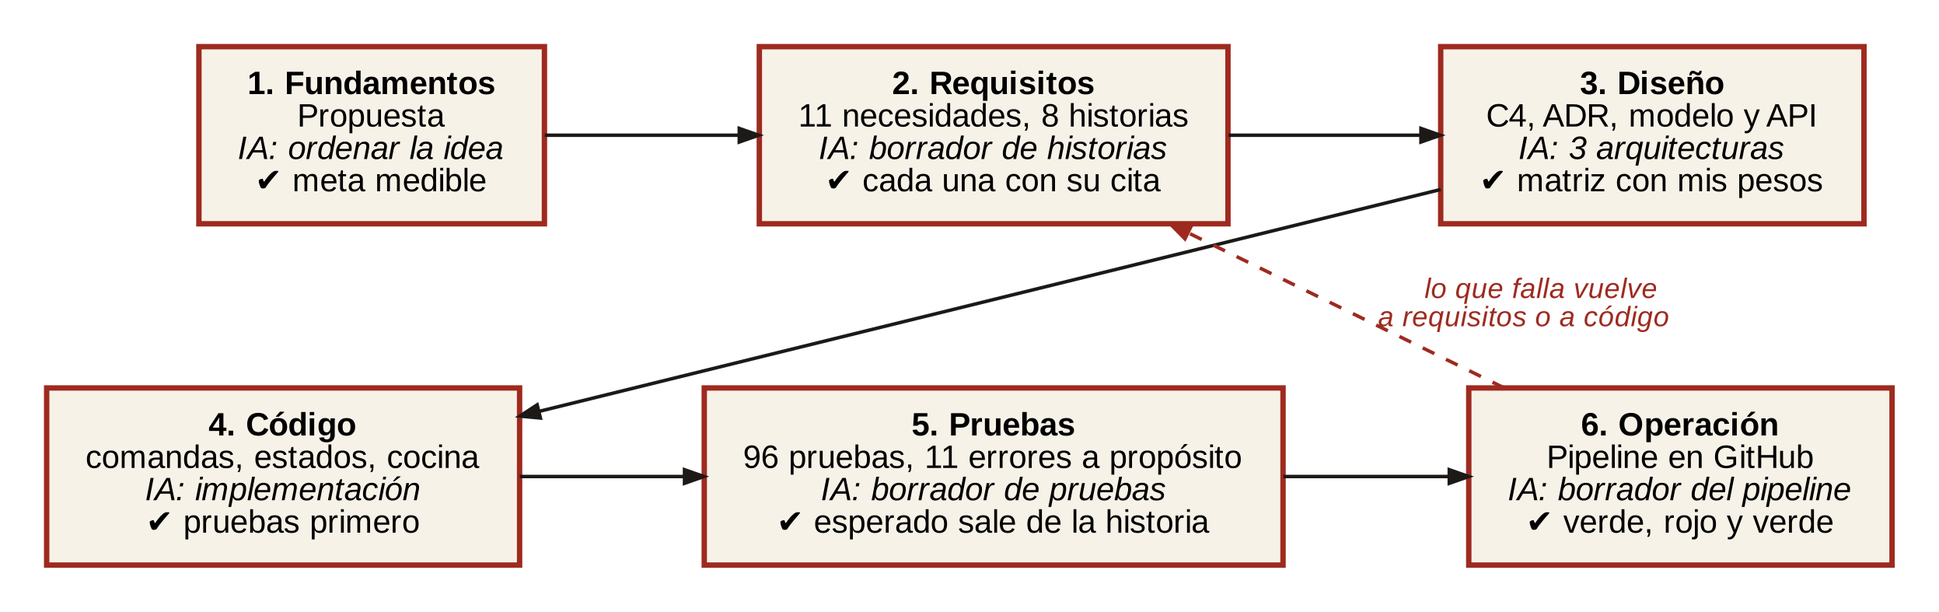
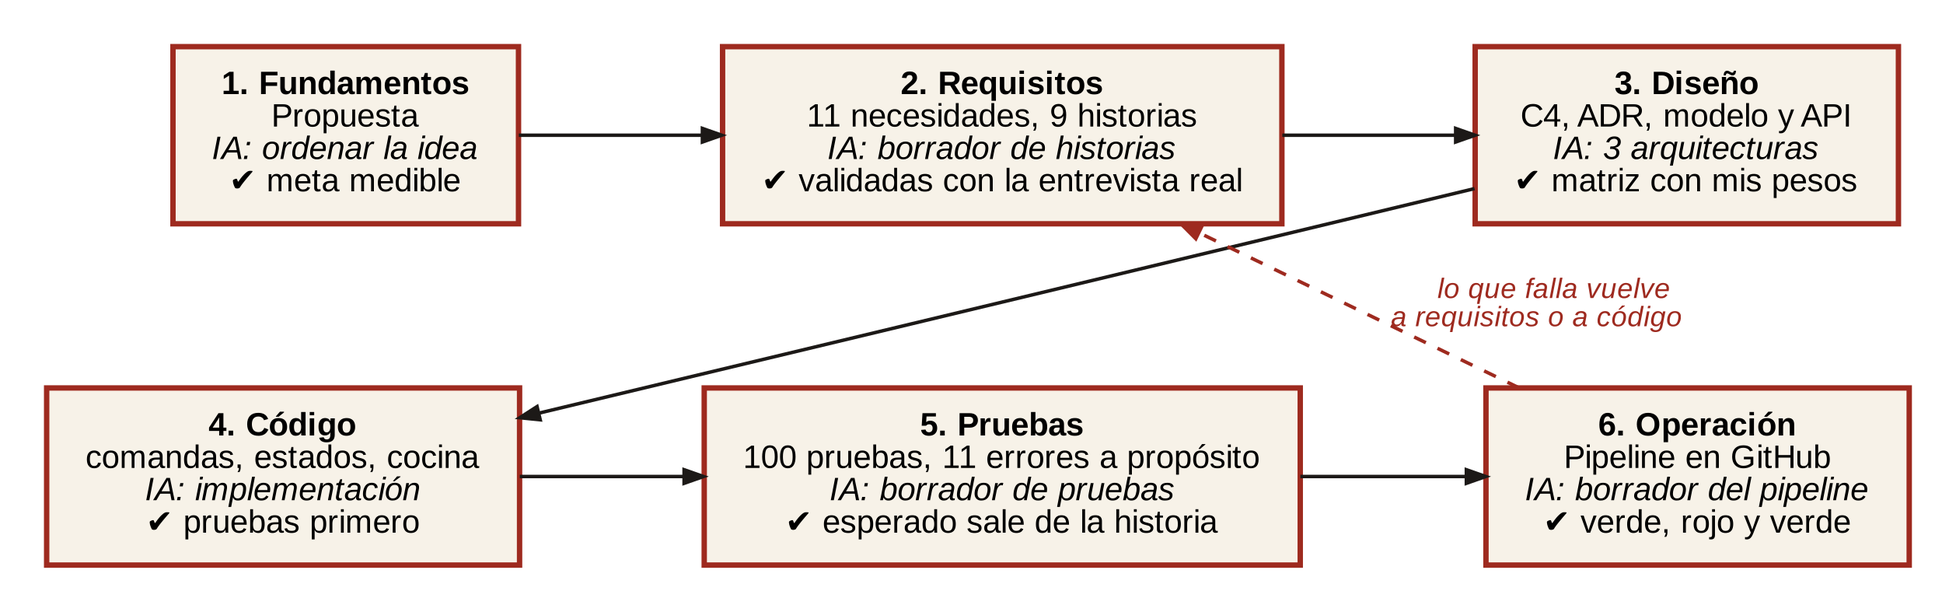
Informe, bitácora y README con la entrevista real y la nueva evaluación de historias

diff --git a/informe_final.md b/informe_final.md
@@ -8,15 +8,15 @@ Fecha: 2026-11-26
 
 ## 1. Resumen
 
-En A Fénix de Oro el mesero anota los pedidos en una libreta y lleva la hoja a la cocina. A veces la cocina no entiende la letra o se pierde una hoja, y el plato sale mal o tarde. A-Fénix reemplaza la hoja: el mesero registra la comanda en una tablet con la base, la proteína, el tamaño y el picante de cada plato, y la cocina la ve en una pantalla en orden de llegada y marca cuándo está lista. Usé IA en las seis fases: para la propuesta, los requisitos, el diseño, el código, las pruebas y el pipeline. El resultado principal de la verificación es que la IA se equivocó en todas las fases, sobre todo inventando cosas que nadie pidió, y que la mayoría de esos errores solo aparecieron al compararlos con los requisitos o al romper el código a propósito. Evalué cada historia de usuario contra sus escenarios de aceptación: de 16 escenarios, 9 se cumplen completos, 3 en parte y 4 son de historias que no alcancé a construir. El proyecto tiene 93 pruebas que pasan, con 100 % de cobertura de la lógica del negocio, y un pipeline que las corre en cada cambio.
+En A Fénix de Oro los pedidos viajan en papel: el mesero anota el pedido, lo escribe con marcador en la caja y la lleva a la cocina, y cuando un pedido sale suena una campana que no dice cuál es. Por eso hay pedidos que nunca se hacen y platos que salen distintos a lo que pidió el cliente. A-Fénix reemplaza el papel: el mesero registra el pedido en una tablet y la cocina lo ve en una pantalla en orden de llegada y marca cuándo está listo. Usé IA en las seis fases del ciclo de vida, y en todas se equivocó en algo. El error más grande lo encontré al final, cuando cambié la entrevista simulada por una real: la IA había inventado cómo se piden los platos. Evalué cada historia de usuario contra sus escenarios de aceptación: de 18 escenarios, 7 se cumplen, 3 en parte, 2 se construyeron sobre un requisito que resultó falso y 6 son de historias sin construir. El proyecto tiene 95 pruebas que pasan, con 100 % de cobertura de la lógica del negocio, y un pipeline que las corre en cada cambio.
 
 ## 2. Problema y usuario
 
-Los usuarios son los 3 meseros y los 2 cocineros del restaurante. Hoy el mesero anota la mesa y los platos en una libreta, pregunta por cada plato si va con arroz frito o chop suey, de pollo, cerdo o res, personal o familiar, y si es picante, y lleva la hoja a la cocina. El cocinero saca las hojas en el orden en que llegan y canta la mesa cuando el plato está listo; si el mesero no lo oye, tiene que ir a preguntar. En la hora del almuerzo salen unas 60 comandas, y lo que más preocupa a la administradora es que el sistema se caiga en plena hora pico.
+En el restaurante trabajan 4 meseros, 3 cocineros y 3 auxiliares de cocina, y hay 12 mesas. En la hora pico, de 12 a 3 de la tarde, salen unos 100 pedidos. El cliente pide el plato y el color, por ejemplo «un arroz con todas las carnes color café». El mesero lo anota, lo escribe con marcador en la caja del pedido y la lleva a la cocina diciéndolo en voz media. Los domicilios llegan por llamada y se anotan en un papel con el pedido, el color, la dirección, el barrio, el teléfono y el total. La cocina prepara en orden de llegada y, cuando un pedido sale, suena una campana; el mesero va por él, pero no siempre es el suyo y tiene que sacar pedidos hasta encontrarlo.
 
-Lo que necesitan es que el pedido llegue a la cocina completo y legible, en orden, y que el salón sepa cuándo está listo.
+Los problemas más comunes son pedidos que nunca se hicieron, con clientes esperando 20 minutos, y pedidos o direcciones mal anotados «por falta de comunicación». El restaurante no tiene internet, y lo que más le preocupa de un sistema son las fallas y los congelamientos. Lo que necesitan es que todo pedido, de mesa o a domicilio, llegue completo a la cocina y que se sepa cuál está listo.
 
-Evidencia: [propuesta del módulo 1](docs/modulos/S2_Propuesta.pdf) y [documento de requisitos con la entrevista del módulo 2](docs/modulos/S3_Requisitos.pdf), anexo A. La entrevista es simulada; lo explico en la sección 6.
+Evidencia: [propuesta del módulo 1](docs/modulos/S2_Propuesta.pdf) y [documento de requisitos con la entrevista](docs/modulos/S3_Requisitos.pdf), anexo A. Las respuestas son mías, como cajero del restaurante; lo explico en la sección 6.
 
 ## 3. La IA en el ciclo de vida
 
@@ -28,19 +28,19 @@ Seguí el ciclo de vida completo, una fase por módulo del seminario, y en cada 
 | Módulo y fase | Qué hice con IA | Herramienta | Evidencia | Cómo verifiqué |
 |---|---|---|---|---|
 | 1. Fundamentos | Ordenar la propuesta: problema, fase donde aplicar IA (pruebas) y meta medible | Claude (chat) | [S2_Propuesta.pdf](docs/modulos/S2_Propuesta.pdf) | La idea y la meta son mías; revisé que la meta se pudiera medir (cobertura y errores a propósito) |
-| 2. Requisitos | Adaptar la entrevista, pasar las respuestas a 11 necesidades con cita, 8 historias con escenarios Gherkin, 3 RNF y la matriz de trazabilidad | Claude (chat) | [S3_Requisitos.pdf](docs/modulos/S3_Requisitos.pdf) | Cada necesidad tiene su cita y cada historia su necesidad de origen. Lo que no tenía cita pasó a preguntas pendientes |
+| 2. Requisitos | Pasar las respuestas a necesidades con cita, historias con escenarios Gherkin, RNF y trazabilidad; al final, comparar la entrevista simulada con la real | Claude (chat) | [S3_Requisitos.pdf](docs/modulos/S3_Requisitos.pdf) | Cada necesidad tiene su cita. Con la entrevista real cambié la HU-02 y agregué la HU-09 |
 | 3. Diseño | Tres alternativas de arquitectura, diagramas C4, modelo de datos y API, y una revisión de coherencia | Claude (chat) | [S4_Diseno.pdf](docs/modulos/S4_Diseno.pdf) | Matriz ponderada con mis pesos; cada caja, entidad y ruta contra una historia (5 fichas de prompt) |
 | 4. Código | `registrar_comanda` con pruebas primero (rojo, verde, refactor). Revisión de seguridad con ruff, bandit, mypy, pip-audit y dos revisiones con IA | Claude (chat) y Claude Code en VS Code (agente) | [README](README.md), [revision_seguridad.md](revision_seguridad.md) | 22 pruebas escritas antes del código; 17 pruebas de abuso en rojo antes de corregir; diff del agente revisado |
 | 5. Pruebas | Tabla de casos con particiones, límites y tabla de decisión; borrador de pruebas de la IA revisado; datos sintéticos; 11 errores metidos a propósito; reporte de defecto | Claude Code en VS Code | [registro_pruebas.md](registro_pruebas.md), [evidencias/semana-7](evidencias/semana-7), [D-01](docs/defectos/D-01.md) | Cada esperado sale de una historia, no del código. Corrí el borrador de la IA contra los 11 errores |
 | 6. Operación | Pipeline de GitHub Actions generado con IA y revisado con la lista de revisión de pipelines del curso | Claude (chat) | [ci.yml](.github/workflows/ci.yml), [revision_configuracion.md](docs/revision_configuracion.md) | Ejecución en verde, error a propósito en rojo y otra vez en verde |
 
-Todas las decisiones con IA están en la [bitácora](bitacora_ia.md): 24 entradas, 14 aceptadas, 6 aceptadas con cambios y 4 rechazadas.
+Todas las decisiones con IA están en la [bitácora](bitacora_ia.md): 25 entradas, 14 aceptadas, 7 aceptadas con cambios y 4 rechazadas.
 
 ## 4. Verificación: lo que la IA hizo mal y cómo lo encontré
 
-### Caso 1: requisitos que el cliente nunca pidió
+### Caso 1: requisitos que el restaurante nunca dijo
 
-Esto pasó en la fase de requisitos. En la semana 3, cuando mi proyecto todavía era VetCare Pro, la IA armó el documento de requisitos antes de que yo hiciera la entrevista, con respuestas supuestas del cliente: inventario de medicamentos, un rol de recepcionista, facturación y fallas de internet. Nada de eso lo dijo el cliente, aunque todo se veía razonable. Lo descubrí al comparar cada necesidad con las respuestas de la entrevista, porque las que no tenían una cita no tenían de dónde salir. Descarté ese borrador y desde ahí cada necesidad lleva su cita y cada historia su necesidad de origen. Cuando pasé el proyecto a A-Fénix volvió a pasar algo parecido: al adaptar la entrevista al restaurante, la IA dejó cosas que solo tienen sentido en una veterinaria, como el carnet de vacunación o que los clientes usaran el sistema, y las quité ([S3, sección 7](docs/modulos/S3_Requisitos.pdf)).
+Este fue el error más grande y lo encontré tarde. Cuando pasé el proyecto de VetCare Pro a A-Fénix no tenía una entrevista con el restaurante, y la IA adaptó las respuestas de otra entrevista simulada. De ahí salió la HU-02: el mesero elige la base, la proteína, el tamaño y el picante de cada plato. Con eso se construyó la carta de ejemplo, la validación de `registrar_comanda` y 22 pruebas. Al final del seminario respondí yo mismo el cuestionario, como cajero del restaurante, y la respuesta fue otra: el cliente solo dice el plato y el color, «dame un chop suey café». La entrevista simulada también había inventado los números de personal y de pedidos y había dejado por fuera los domicilios, que el restaurante pone entre las tres cosas más importantes. Lo detecté comparando cada historia con las respuestas reales. Pasé la HU-02 a «plato y color», agregué la HU-09 de domicilios y dejé las pruebas de la HU-02 nueva marcadas como diferencia, porque el código todavía pide las cuatro modificaciones ([requisitos v3](docs/modulos/S3_Requisitos.pdf), sección 7, y la [versión 2 con la entrevista simulada](docs/modulos/S3_Requisitos_v2_entrevista_simulada.pdf)). Algo parecido ya me había pasado en la semana 3 con VetCare Pro, cuando la IA armó requisitos de inventario, recepcionista y facturación antes de la entrevista.
 
 ### Caso 2: un tope de seguridad que no protegía nada
 
@@ -58,51 +58,52 @@ En operación le pedí a la IA un pipeline con un prompt simple. Me dio uno que 
 
 La arquitectura es un monolito web en Python con FastAPI y SQLite, instalado en un mini PC del restaurante, que no depende de internet y tiene la pantalla de cocina conectada por cable. Ganó la matriz ponderada con 103 puntos, contra 69 de la opción en la nube y 65 de los microservicios ([documento de diseño y ADR-001](docs/modulos/S4_Diseno.pdf)).
 
-De las 8 historias terminé la lógica de 6. Registrar la comanda (HU-01) y elegir las modificaciones desde la carta (HU-02) están en `afenix/comandas.py`. La pantalla de cocina en orden de llegada (HU-04) y el tiempo de espera (HU-05) están en `afenix/cocina.py`. El cambio de estado paso a paso (HU-06) y la regla de que solo la cocina lo cambia (HU-07), con su prueba de abuso del rol, están en `afenix/estados.py`. Quedaron pendientes HU-03, que la comanda llegue sola a la cocina, porque necesita la API y el WebSocket, y HU-08, la consulta del estado por mesa.
+De las 9 historias de la versión 3 hay lógica construida para 6. Registrar el pedido (HU-01) y la validación de los platos (HU-02, todavía con las modificaciones de la versión 2) están en `afenix/comandas.py`. La pantalla de cocina en orden de llegada (HU-04) y el tiempo de espera (HU-05) están en `afenix/cocina.py`. El cambio de estado paso a paso (HU-06) y la regla de que solo la cocina lo cambia (HU-07) están en `afenix/estados.py`. Faltan HU-03, que el pedido llegue solo a la cocina, porque necesita la API; HU-08, la consulta por mesa, y HU-09, los domicilios.
 
 ### Evaluación de las historias de usuario
 
-Para evaluar las historias escribí una prueba por cada escenario de aceptación del documento de requisitos, con los mismos datos del escenario: la mesa 4 con arroz frito con piña y chop suey, la mesa 2 a las 12:05 y la mesa 6 a las 12:01, y así con todos ([tests/test_aceptacion.py](tests/test_aceptacion.py)). Cada prueba comprueba todo el «entonces» del escenario, no solo una parte. Cuando el código no cumple el criterio, la prueba queda marcada como diferencia conocida (`xfail`) en lugar de cambiarla para que pase.
+Para evaluar las historias escribí una prueba por cada escenario de aceptación del documento de requisitos, con los mismos datos del escenario ([tests/test_aceptacion.py](tests/test_aceptacion.py)). Cada prueba comprueba todo el «entonces» del escenario. Cuando el código no cumple el criterio, la prueba queda marcada como diferencia conocida (`xfail`) en lugar de cambiarla para que pase. Los criterios son los de la versión 3, que sale de la entrevista real.
 
 | Historia | Prioridad | Escenario | Resultado | Qué encontré |
 |---|---|---|---|---|
-| HU-01 Registrar la comanda | Must | 1. Comanda registrada | Cumple | Queda «recibido» con mesa, platos y hora |
-| | | 2. Comanda sin platos | Cumple | Mismo mensaje del criterio |
-| HU-02 Modificaciones desde la carta | Must | 1. Plato con modificaciones | Cumple | Guarda las cuatro modificaciones |
-| | | 2. Opción fuera de la carta | Cumple | «La proteína no está en la carta» |
-| HU-03 La comanda llega a la cocina | Must | 1 y 2 | Sin construir | Necesita la API y el WebSocket |
+| HU-01 Registrar el pedido | Must | 1. Pedido registrado | Cumple | Queda «recibido» con mesa, platos y hora |
+| | | 2. Pedido sin platos | Cumple | Mismo mensaje del criterio |
+| HU-02 Plato y color | Must | 1. Plato con color | No cumple | El código pide base, proteína, tamaño y picante, que salieron de la entrevista simulada |
+| | | 2. Color que no existe | No cumple | El código no conoce los colores |
+| HU-03 Llega a la cocina | Must | 1 y 2 | Sin construir | Necesita la API y la red local |
 | HU-04 Cocina en orden de llegada | Must | 1. Orden por llegada | Cumple | La mesa 6 sale antes que la 2 |
-| | | 2. Comanda lista | Cumple | No aparece en la pantalla |
+| | | 2. Pedido listo | Cumple | No aparece en la pantalla |
+| HU-09 Domicilios | Must | 1 y 2 | Sin construir | Historia nueva de la entrevista real |
 | HU-05 Tiempo de espera | Should | 1. Tiempo a la vista | Cumple | 12 minutos |
-| | | 2. Hora del equipo errada | En parte | No muestra un tiempo negativo, pero el mensaje no es «Revisa la hora del equipo» |
+| | | 2. Hora del equipo errada | En parte | No muestra un tiempo negativo, pero el mensaje no es el del criterio |
 | HU-06 Cambio de estado | Should | 1. Pedido listo | Cumple | Guarda las 12:24 como hora de entrega |
-| | | 2. Salto de estado | En parte | El estado no cambia, pero el mensaje no es el del criterio |
-| HU-07 Solo la cocina cambia el estado | Should | 1. Cambio desde la cocina | En parte | Cambia el estado, pero no guarda quién lo hizo ni a qué hora |
+| | | 2. Salto o devolución | En parte | No cambia el estado, pero el mensaje no es el del criterio |
+| HU-07 Solo la cocina cambia el estado | Should | 1. Cambio desde la cocina | En parte | No guarda quién lo hizo ni a qué hora |
 | | | 2. Cambio desde el salón | Cumple | Lo rechaza y el estado no cambia |
 | HU-08 Consulta por mesa | Could | 1 y 2 | Sin construir | Pendiente |
 
-De los 16 escenarios, 9 se cumplen completos, 3 en parte y 4 son de las dos historias que no construí. De las historias Must, tres están completas (HU-01, HU-02 y HU-04) y una sin construir (HU-03). Las tres diferencias son reales y no las había visto antes: las pruebas de la semana 7 revisaban que hubiera un error, pero no comparaban el mensaje con el del criterio, y ninguna revisaba que el cambio de estado guardara quién lo hizo. La de HU-07 es la más importante, porque el modelo de datos sí tiene la entidad CambioEstado para eso y el código no la usa. Las dejo como pendientes en lugar de esconderlas.
+De los 18 escenarios, 7 se cumplen, 3 en parte, 2 no se cumplen y 6 son de historias sin construir. De las cinco historias Must, dos están completas (HU-01 y HU-04), una se construyó sobre un requisito equivocado (HU-02) y dos están sin construir (HU-03 y HU-09). Las diferencias de HU-05, HU-06 y HU-07 no las había visto antes, porque las pruebas de la semana 7 revisaban que hubiera un error pero no comparaban el mensaje con el del criterio. La entrevista real sí confirmó varias reglas del código: la cocina trabaja en orden de llegada, un pedido enviado no se devuelve ni se cancela, y el restaurante tiene 12 mesas, que ya quedó como tope en el código ([d07ecaa](https://github.com/Darkandligh/Seminario/commit/d07ecaa) y [b3395a8](https://github.com/Darkandligh/Seminario/commit/b3395a8)).
 
-Hay 93 pruebas que pasan, entre normales, de límite, de error, de abuso y de aceptación, con 100 % de cobertura de `afenix/`, y 3 pruebas de aceptación marcadas como diferencias conocidas (ver la evaluación de historias). El pipeline las corre junto con ruff, mypy, bandit y pip-audit en cada cambio ([última ejecución del pipeline en main](https://github.com/Darkandligh/Seminario/actions?query=branch%3Amain)).
+Hay 95 pruebas que pasan, entre normales, de límite, de error, de abuso y de aceptación, con 100 % de cobertura de `afenix/`, y 5 pruebas de aceptación marcadas como diferencias conocidas. El pipeline las corre junto con ruff, mypy, bandit y pip-audit en cada cambio ([última ejecución del pipeline en main](https://github.com/Darkandligh/Seminario/actions?query=branch%3Amain)).
 
-No alcancé a hacer la API, la base de datos ni las pantallas. El seminario se centró en la lógica y en cómo verificarla, y preferí terminar bien 6 historias que dejar las 8 a medias. También quedan preguntas para el restaurante: cuántas mesas tiene (P-03), si los topes de 50 platos y 20 por plato le sirven (P-01) y si un pedido marcado listo por error se puede devolver (P-06). También quedan las tres diferencias de la evaluación de historias: los dos mensajes que no son los del criterio y guardar quién cambió el estado y a qué hora.
+No alcancé a hacer la API, la base de datos ni las pantallas. El seminario se centró en la lógica y en cómo verificarla. Lo que más pesa ahora es cambiar la HU-02 a plato y color, construir los domicilios (HU-09) y corregir las diferencias de la evaluación. También quedan preguntas: desde cuántos minutos un pedido está demorado (P-02), porque depende del plato, y qué colores tiene la carta (P-04).
 
 ## 6. Reflexión ética y legal
 
 | Principio | Decisión en mi proyecto | Evidencia |
 |---|---|---|
 | Datos personales (Ley 1581 de 2012) | No uso datos de personas reales. Las comandas solo tienen mesa, platos y hora; los datos de prueba son sintéticos y los nombres del documento de requisitos son ficticios. A la IA nunca le pasé datos del restaurante | [tests/conftest.py](tests/conftest.py), [S3, introducción](docs/modulos/S3_Requisitos.pdf) |
-| Sesgo | La IA tiende a proponer lo que ve en otros sistemas (administradores, facturación, Redis, microservicios) aunque el restaurante no lo necesite. Lo traté como un sesgo: nada entra sin una cita del cliente o una historia | Casos 1 y 3 de este informe |
-| Transparencia | Declaro en la bitácora cada uso de IA y guardo los borradores de la IA sin cambios como evidencia. La entrevista simulada está marcada como simulada en el documento de requisitos | [bitacora_ia.md](bitacora_ia.md), [evidencias/](evidencias) |
+| Sesgo | La IA tiende a proponer lo que ve en otros sistemas (modificaciones por plato, administradores, facturación, microservicios) aunque el restaurante no lo use. Además, quien respondió la entrevista soy yo, que también desarrollo el sistema. Para los dos casos la regla fue la misma: nada entra sin una cita, y si la cita contradice el diseño, cambia el diseño | Casos 1 y 3 de este informe |
+| Transparencia | Declaro en la bitácora cada uso de IA y guardo los borradores de la IA sin cambios. Dejé en el repositorio la versión 2 de los requisitos, con la entrevista simulada, al lado de la versión 3 con la real, para que se vea qué cambió | [bitacora_ia.md](bitacora_ia.md), [evidencias/](evidencias) |
 | Responsabilidad | Lo que entrego es mío aunque lo haya escrito la IA. Por eso ninguna prueba se modifica para que pase, el agente trabaja en una rama aparte y reviso su diff, y el pipeline no deja pasar un cambio que rompa las pruebas | Entrada 16 de la bitácora, [ci.yml](.github/workflows/ci.yml) |
 | Propiedad intelectual y política de uso | Las dependencias son de código abierto (pytest, ruff y mypy con licencia MIT; bandit y pip-audit con Apache 2.0). La política de uso de Claude permite usar lo que genera, y lo declaro. Usé el repositorio de un compañero solo como referencia del formato de entrega, sin copiar su código | [requirements-dev.txt](requirements-dev.txt), [README, sección 8](README.md) |
 
-El dilema más importante fue la entrevista. Cuando cambié el proyecto final de VetCare Pro a A-Fénix ya no tenía una entrevista con el restaurante, y la forma más rápida de seguir era que la IA inventara las respuestas a partir de la entrevista que había hecho para la veterinaria. Lo hice, pero no podía presentar esas citas como si las hubiera dicho el restaurante, porque todo el documento de requisitos se apoya en que las necesidades salen del cliente. Lo resolví declarándolo en tres partes del documento: la introducción, el anexo y la sección de uso de IA dicen que la entrevista es simulada y adaptada con IA, y que las necesidades se deben validar con el restaurante antes de construir. Así el documento sirve para el curso sin engañar a nadie que lo lea.
+El dilema más importante fue la entrevista, y tuvo dos momentos. Primero, cuando cambié el proyecto a A-Fénix, la IA adaptó las respuestas de una entrevista que había hecho para otro proyecto. Las usé, pero no podía presentarlas como si fueran del restaurante, así que las marqué como simuladas. Después, para tener datos reales, respondí yo mismo el cuestionario, porque trabajo como cajero en el restaurante. Eso me da datos de primera mano, pero me pone en los dos lados: soy el que informa y el que desarrolla, y podía inclinar las respuestas hacia lo que ya había construido. Lo resolví respondiendo un cuestionario escrito, copiando las respuestas tal cual y cambiando el diseño cuando las respuestas lo contradecían, aunque eso dejara dos escenarios de una historia Must sin cumplir. Lo dejé declarado en el documento de requisitos.
 
 ## 7. Aprendizajes
 
-Ahora sé escribir el contrato y las pruebas antes de pedirle código a la IA, y eso me obliga a decidir qué tiene que hacer la función antes de verla. También aprendí que una prueba en verde no prueba nada por sí sola: hay que meter errores a propósito para saber si la prueba los ve. Al principio confié de más en la IA en dos cosas: en que sus requisitos y su diseño salían del cliente, cuando muchas veces salían de otros sistemas, y en sus pruebas, que parecían completas pero no revisaban lo importante. Lo que haría distinto es hacer la entrevista real con el restaurante desde el comienzo y pedirle a la IA una sola cosa a la vez, porque cuando le pedí mucho junto se adelantó y metió una API y campos que nadie había pedido.
+Ahora sé escribir el contrato y las pruebas antes de pedirle código a la IA, y eso me obliga a decidir qué tiene que hacer la función antes de verla. También aprendí que una prueba en verde no prueba nada por sí sola: hay que meter errores a propósito para saber si la prueba los ve. Donde más confié de más en la IA fue en los requisitos. Construí una historia completa, con su código y sus pruebas, sobre una forma de pedir los platos que el restaurante no usa, y todo estaba en verde. Las pruebas comprobaban que el código hacía lo que decía la historia, pero nadie había comprobado que la historia fuera cierta. Lo que haría distinto es hacer la entrevista real desde el comienzo, antes de escribir una sola historia, y pedirle a la IA una sola cosa a la vez.
 
 ## 8. Anexos
 
-Todo está en el repositorio. La bitácora de uso de IA está en [bitacora_ia.md](bitacora_ia.md). Los documentos de los módulos 1 a 3 están en [docs/modulos](docs/modulos): la [propuesta](docs/modulos/S2_Propuesta.pdf), los [requisitos con la entrevista](docs/modulos/S3_Requisitos.pdf) y el [diseño con los diagramas C4, el ADR, el modelo y la API](docs/modulos/S4_Diseno.pdf). El código y la revisión de seguridad del módulo 4 están en el [README](README.md) y en [revision_seguridad.md](revision_seguridad.md). Las pruebas del módulo 5 están en [registro_pruebas.md](registro_pruebas.md), con sus evidencias en [evidencias/semana-7](evidencias/semana-7) y el reporte de defecto [D-01](docs/defectos/D-01.md). El pipeline del módulo 6 está en [ci.yml](.github/workflows/ci.yml) y su revisión en [revision_configuracion.md](docs/revision_configuracion.md). Cada semana se trabajó en su rama (`semana-5`, `semana-6`, `semana-7` y `entrega-final`) y todas quedaron unidas en `main`.
+Todo está en el repositorio. La bitácora de uso de IA está en [bitacora_ia.md](bitacora_ia.md). Los documentos de los módulos 1 a 3 están en [docs/modulos](docs/modulos): la [propuesta](docs/modulos/S2_Propuesta.pdf), los [requisitos con la entrevista real](docs/modulos/S3_Requisitos.pdf) (y la [versión con la entrevista simulada](docs/modulos/S3_Requisitos_v2_entrevista_simulada.pdf)) y el [diseño con los diagramas C4, el ADR, el modelo y la API](docs/modulos/S4_Diseno.pdf). El código y la revisión de seguridad del módulo 4 están en el [README](README.md) y en [revision_seguridad.md](revision_seguridad.md). Las pruebas del módulo 5 están en [registro_pruebas.md](registro_pruebas.md), con sus evidencias en [evidencias/semana-7](evidencias/semana-7) y el reporte de defecto [D-01](docs/defectos/D-01.md). El pipeline del módulo 6 está en [ci.yml](.github/workflows/ci.yml) y su revisión en [revision_configuracion.md](docs/revision_configuracion.md). Cada semana se trabajó en su rama (`semana-5`, `semana-6`, `semana-7` y `entrega-final`) y todas quedaron unidas en `main`.

diff --git a/bitacora_ia.md b/bitacora_ia.md
@@ -229,12 +229,21 @@ Asistente usado: Claude (claude.ai), en el chat, en la semana 5; Claude Code den
 - **Verificación:** 12 pasan y 3 quedan como diferencias conocidas. Leí cada mensaje real del código para confirmar que no coincide con el del criterio.
 - **Commit relacionado:** «Pruebas de aceptación: un caso por escenario de las historias HU-01 a HU-07»
 
+### Entrada 25
+
+- **Fecha:** 2026-11-26
+- **Prompt o sugerencia:** Le di a la IA mis respuestas reales al cuestionario del restaurante, como cajero, y le pedí compararlas con las historias de la versión 2, que salieron de una entrevista simulada.
+- **Decisión:** Aceptada con cambios
+- **Por qué:** La comparación mostró que la entrevista simulada había inventado las cuatro modificaciones de cada plato (base, proteína, tamaño y picante): el cliente solo pide el plato y el color. También había puesto otros números de personal y de pedidos y había dejado por fuera los domicilios. Acepté pasar la HU-02 a «plato y color» y agregar la HU-09 de domicilios. Cambié las historias y no mis respuestas, y declaré en el documento que soy a la vez el que responde y el que desarrolla.
+- **Verificación:** Revisé cada cita del documento de requisitos v3 contra mis respuestas escritas. Con el dato real de 12 mesas puse el tope en el código, primero con la prueba en rojo. Las pruebas de la HU-02 nueva quedaron marcadas como diferencia (`xfail`) porque el código todavía pide las cuatro modificaciones.
+- **Commit relacionado:** d07ecaa y b3395a8 (tope de 12 mesas) y f3e922a «Requisitos v3 con la entrevista real; HU-02 cambia a plato y color (xfail)»
+
 ## Resumen
 
 | Decisión | Cantidad |
 |---|---|
 | Aceptadas | 14 |
-| Aceptadas con cambios | 6 |
+| Aceptadas con cambios | 7 |
 | Rechazadas | 4 |
 
 ## Errores que atraparon las pruebas

diff --git a/README.md b/README.md
@@ -128,7 +128,7 @@ python -m pytest -v
 python -m pytest --cov=afenix
 ```
 
-Salen 93 pruebas que pasan, con 100 % de cobertura: las 22 de la semana 5 (`tests/test_registrar_comanda.py`), las 17 de abuso de la semana 6 (`tests/test_abuso_comandas.py`), 42 de la semana 7 (`test_estados.py`, `test_cocina.py` y `test_comandas_datos.py`, con los datos sintéticos de `tests/conftest.py`) y 12 de aceptación, una por escenario de las historias (`tests/test_aceptacion.py`). Además hay 3 pruebas de aceptación marcadas `xfail`: son diferencias reales entre el criterio y el código, explicadas en la evaluación de historias del informe final.
+Salen 95 pruebas que pasan, con 100 % de cobertura: las 22 de la semana 5 (`tests/test_registrar_comanda.py`), las 17 de abuso de la semana 6 (`tests/test_abuso_comandas.py`), 42 de la semana 7 (`test_estados.py`, `test_cocina.py` y `test_comandas_datos.py`, con los datos sintéticos de `tests/conftest.py`) , 12 de aceptación, una por escenario de las historias (`tests/test_aceptacion.py`), y 2 de la entrevista real (`tests/test_entrevista_real.py`). Además hay 5 pruebas de aceptación marcadas `xfail`: son diferencias reales entre el criterio y el código, explicadas en la evaluación de historias del informe final.
 
 Las mismas pruebas, el linter, mypy, bandit y pip-audit corren solos en GitHub Actions cada vez que se sube un cambio (`.github/workflows/ci.yml`). La revisión de ese pipeline está en [`docs/revision_configuracion.md`](docs/revision_configuracion.md).
 
